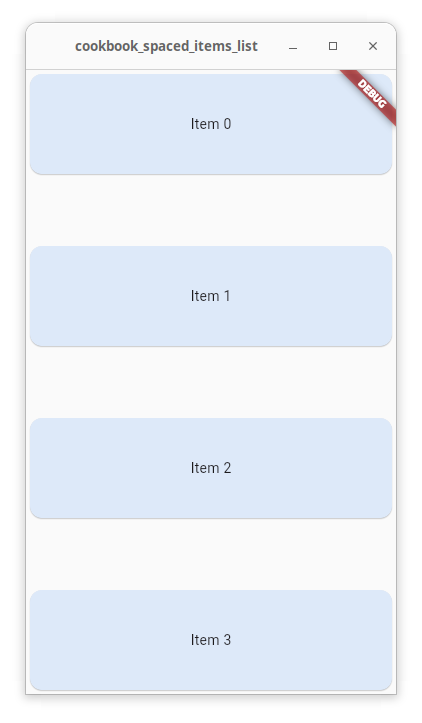
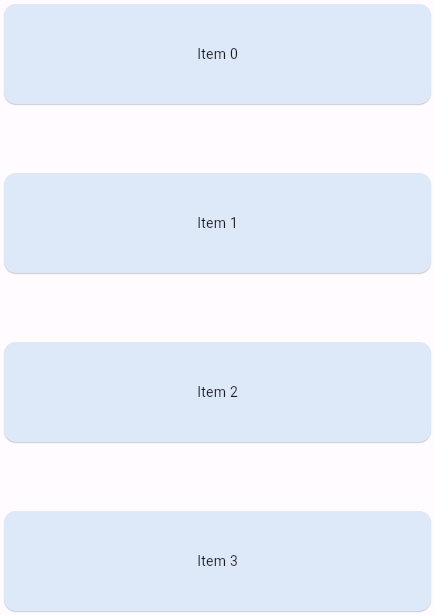
improve docs and sample

diff --git a/examples/cookbook/lists/spaced_items/lib/main.dart b/examples/cookbook/lists/spaced_items/lib/main.dart
@@ -11,24 +11,27 @@ class SpacedItemsList extends StatelessWidget {
 
     return MaterialApp(
       title: 'Flutter Demo',
+      debugShowCheckedModeBanner: false,
       theme: ThemeData(
         colorScheme: ColorScheme.fromSeed(seedColor: Colors.deepPurple),
         cardTheme: CardTheme(color: Colors.blue.shade50),
         useMaterial3: true,
       ),
-      home: LayoutBuilder(builder: (context, constraints) {
-        return SingleChildScrollView(
-          child: ConstrainedBox(
-            constraints: BoxConstraints(minHeight: constraints.maxHeight),
-            child: Column(
-              mainAxisAlignment: MainAxisAlignment.spaceBetween,
-              crossAxisAlignment: CrossAxisAlignment.stretch,
-              children: List.generate(
-                  items, (index) => ItemWidget(text: 'Item $index')),
+      home: Scaffold(
+        body: LayoutBuilder(builder: (context, constraints) {
+          return SingleChildScrollView(
+            child: ConstrainedBox(
+              constraints: BoxConstraints(minHeight: constraints.maxHeight),
+              child: Column(
+                mainAxisAlignment: MainAxisAlignment.spaceBetween,
+                crossAxisAlignment: CrossAxisAlignment.stretch,
+                children: List.generate(
+                    items, (index) => ItemWidget(text: 'Item $index')),
+              ),
             ),
-          ),
-        );
-      }),
+          );
+        }),
+      ),
     );
   }
 }

diff --git a/src/cookbook/lists/spaced-items.md b/src/cookbook/lists/spaced-items.md
@@ -22,32 +22,32 @@ or the number of items exceeds the screen size.
 
 ![Scrollable items]({{site.url}}/assets/images/docs/cookbook/spaced-items-2.png){:.site-mobile-screenshot}
 
-Typically, you use `Spacer` to tune the spacing between widgets,
-or `Expanded` to expand a widget to fill the available space.
+Typically, you use [`Spacer`][] to tune the spacing between widgets,
+or [`Expanded`][] to expand a widget to fill the available space.
 However, these solutions are not possible inside scrollable widgets,
 because they need a finite height constraint.
 
-This recipe demonstrates how to use `LayourBuilder` and `ConstrainedBox`
+This recipe demonstrates how to use [`LayoutBuilder`][] and [`ConstrainedBox`][]
 to space out list items evently when there is enough space, and to allow
 users to scroll when there is not enough space,
 using the following steps:
 
-  1. Add a `LayoutBuilder` with a `SingleChildScrollView`.
-  2. Add a `ConstrainedBox` inside the `SingleChildScrollView`.
-  3. Create a `Column` with spaced items.
+  1. Add a [`LayoutBuilder`][] with a [`SingleChildScrollView`][].
+  2. Add a [`ConstrainedBox`][] inside the [`SingleChildScrollView`][].
+  3. Create a [`Column`][] with spaced items.
 
 ## 1. Add a `LayoutBuilder` with a `SingleChildScrollView`
 
-Start by creating a `LayoutBuilder`. You need to provide
+Start by creating a [`LayoutBuilder`][]. You need to provide
 a `builder` callback function with two parameters:
 
-  1. The `BuildContext` provided by the `LayoutBuilder`.
-  2. The `BoxConstraints` of the parent widget.
+  1. The [`BuildContext`][] provided by the [`LayoutBuilder`][].
+  2. The [`BoxConstraints`][] of the parent widget.
 
-In this recipe, you will not be using the `BuildContext`,
-but you will need the `BoxConstraints` in the next step.
+In this recipe, you will not be using the [`BuildContext`][],
+but you will need the [`BoxConstraints`][] in the next step.
 
-Inside the `builder` function, return a `SingleChildScrollView`.
+Inside the `builder` function, return a [`SingleChildScrollView`][].
 This widget will ensure that the child widget can be scrolled
 even when the parent container gets too small.
 
@@ -62,18 +62,18 @@ LayoutBuilder(builder: (context, constraints) {
 
 ## 2. Add a `ConstrainedBox` inside the `SingleChildScrollView`
 
-In this step, add a `ConstrainedBox`
-as the child of the `SingleChildScrollView`.
+In this step, add a [`ConstrainedBox`][]
+as the child of the [`SingleChildScrollView`][].
 
-The `ConstrainedBox` widget imposes aditional constraints to its child.
+The [`ConstrainedBox`][] widget imposes aditional constraints to its child.
 
 Configure the constraint by setting the `minHeight` parameter to be
-the `maxHeight` of the `LayoutBuilder` constraints.
+the `maxHeight` of the [`LayoutBuilder`][] constraints.
 
 This ensures, that the child widget 
 will be constrained to have a minimum height equal to the available
-space provided by the `LayoutBuilder` constraints,
-namely the maximum height of the `BoxConstraints`.
+space provided by the [`LayoutBuilder`][] constraints,
+namely the maximum height of the [`BoxConstraints`][].
 Making sure that the items can be spaced equally within this constraint.
 
 <?code-excerpt "lib/spaced_list.dart (constrainedBox)"?>
@@ -90,12 +90,12 @@ LayoutBuilder(builder: (context, constraints) {
 
 However, you don't set the `maxHeight` parameter,
 because you need to allow the child to be larger
-than the `LayoutBuilder` size,
+than the [`LayoutBuilder`][] size,
 in case the items don't fit the screen.
 
 ## 3. Create a `Column` with spaced items
 
-Finally, add a `Column` as the child of the `ConstrainedBox`.
+Finally, add a [`Column`][] as the child of the [`ConstrainedBox`][].
 
 To space the items evenly, 
 set the `mainAxisAlignment` to `MainAxisAlignment.spaceBetween`.
@@ -119,12 +119,12 @@ LayoutBuilder(builder: (context, constraints) {
 });
 ```
 
-Alternatively, you can use the `Spacer` widget 
+Alternatively, you can use the [`Spacer`][] widget 
 to tune the spacing between the items,
-or the `Expanded` widget, if you want one widget to take more space than others.
+or the [`Expanded`][] widget, if you want one widget to take more space than others.
 
-For that, you have to wrap the `Column` with the `IntrinsicHeight` widget,
-which forces the `Column` widget to size itself to a minimum height,
+For that, you have to wrap the [`Column`] with an [`IntrinsicHeight`][] widget,
+which forces the [`Column`][] widget to size itself to a minimum height,
 instead of expanding infinitely.
 
 <?code-excerpt "lib/spaced_list.dart (intrinsic)"?>
@@ -178,24 +178,27 @@ class SpacedItemsList extends StatelessWidget {
 
     return MaterialApp(
       title: 'Flutter Demo',
+      debugShowCheckedModeBanner: false,
       theme: ThemeData(
         colorScheme: ColorScheme.fromSeed(seedColor: Colors.deepPurple),
         cardTheme: CardTheme(color: Colors.blue.shade50),
         useMaterial3: true,
       ),
-      home: LayoutBuilder(builder: (context, constraints) {
-        return SingleChildScrollView(
-          child: ConstrainedBox(
-            constraints: BoxConstraints(minHeight: constraints.maxHeight),
-            child: Column(
-              mainAxisAlignment: MainAxisAlignment.spaceBetween,
-              crossAxisAlignment: CrossAxisAlignment.stretch,
-              children: List.generate(
-                  items, (index) => ItemWidget(text: 'Item $index')),
+      home: Scaffold(
+        body: LayoutBuilder(builder: (context, constraints) {
+          return SingleChildScrollView(
+            child: ConstrainedBox(
+              constraints: BoxConstraints(minHeight: constraints.maxHeight),
+              child: Column(
+                mainAxisAlignment: MainAxisAlignment.spaceBetween,
+                crossAxisAlignment: CrossAxisAlignment.stretch,
+                children: List.generate(
+                    items, (index) => ItemWidget(text: 'Item $index')),
+              ),
             ),
-          ),
-        );
-      }),
+          );
+        }),
+      ),
     );
   }
 }
@@ -220,11 +223,12 @@ class ItemWidget extends StatelessWidget {
 }
 ```
 
-
-[`CustomScrollView`]: {{site.api}}/flutter/widgets/CustomScrollView-class.html
-[`SliverAppBar`]: {{site.api}}/flutter/material/SliverAppBar-class.html
-[`SliverChildBuilderDelegate`]: {{site.api}}/flutter/widgets/SliverChildBuilderDelegate-class.html
-[`SliverChildDelegate`]: {{site.api}}/flutter/widgets/SliverChildDelegate-class.html
-[`SliverGrid`]: {{site.api}}/flutter/widgets/SliverGrid-class.html
-[`SliverList`]: {{site.api}}/flutter/widgets/SliverList-class.html
-[various properties you can pass to the `SliverAppBar` widget]: {{site.api}}/flutter/material/SliverAppBar/SliverAppBar.html
+[`BoxConstraints`]: {{site.api}}/flutter/rendering/BoxConstraints-class.html
+[`BuildContext`]: {{site.api}}/flutter/widgets/BuildContext-class.html
+[`Column`]: {{site.api}}/flutter/widgets/Column-class.html
+[`ConstrainedBox`]: {{site.api}}/flutter/widgets/ConstrainedBox-class.html
+[`Expanded`]: {{site.api}}/flutter/widgets/Expanded-class.html
+[`IntrinsicHeight`]: {{site.api}}/flutter/widgets/IntrinsicHeight-class.html
+[`LayoutBuilder`]: {{site.api}}/flutter/widgets/LayoutBuilder-class.html
+[`SingleChildScrollView`]: {{site.api}}/flutter/widgets/SingleChildScrollView-class.html
+[`Spacer`]: {{site.api}}/flutter/widgets/Spacer-class.html
